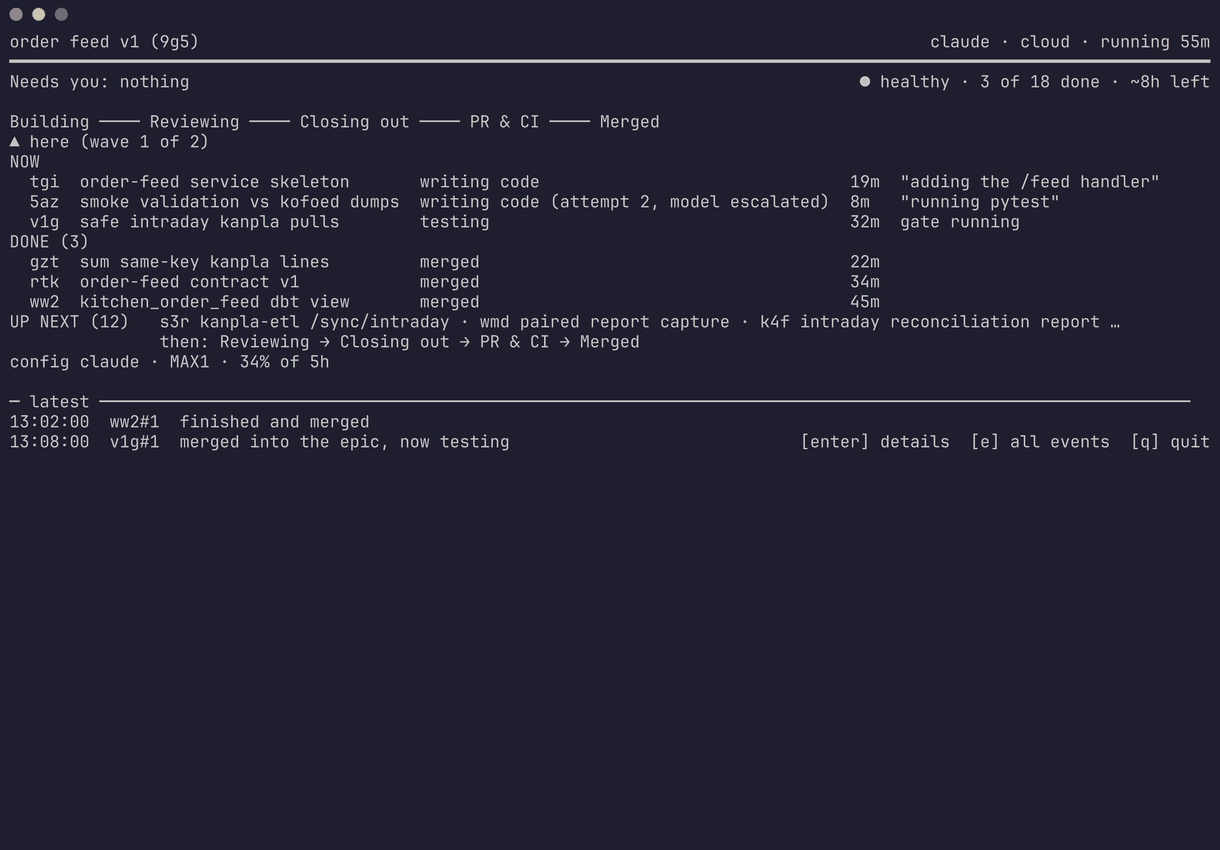
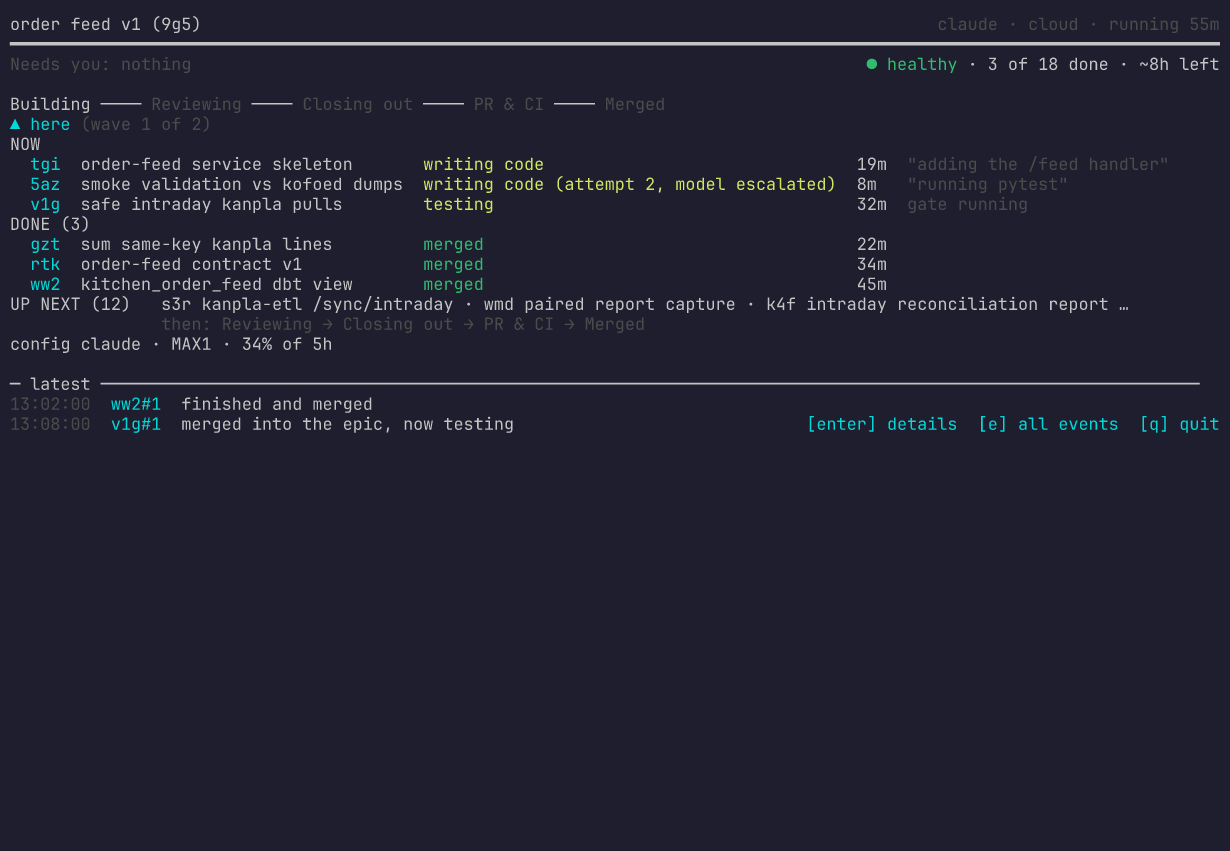
cl7: re-capture the watch screenshots in colour, from the styled output
The ymf screenshots were monochrome: the diagnosis is that the view never
dropped its accents (tick 5ba's colour tests pass) — the capture fed the
pipeline plain text. The five PNGs under docs/design/watch-redesign-2026-10/
are re-captured from the styled frames: a capture script renders each
scenario with the terminal's own style set (behind -screenshot-dir in
internal/cli, asserted against the pinned plain goldens), freeze turns each
into a PNG, and a new guard test reads the committed PNGs back and asserts
the hue families the accents draw per scenario — green done, amber in
progress, red failed/held, cyan identities, on the same five scenarios the
goldens pin. No window chrome on the captures: window controls would carry
their own red/yellow/green and make that guard vacuous.

Changed region(s): [[0.0, 0.0, 0.9967, 0.5506], [0.6541, 0.4894, 0.9967, 0.5506]]

diff --git a/internal/cli/watch_screenshots_test.go b/internal/cli/watch_screenshots_test.go
@@ -1,0 +1,296 @@
+package cli
+
+// The committed screenshots (docs/design/watch-redesign-2026-10): the five
+// scenarios the design names, re-captured in colour (tick cl7).
+//
+// Two tests keep them honest:
+//
+//   - TestDashboardScreenshotSources writes the five scenarios' frames with
+//     the terminal's own style set — the bytes the capture turns into PNGs —
+//     behind the -screenshot-dir flag, so the capture script
+//     (docs/design/watch-redesign-2026-10/capture.sh) regenerates the
+//     screenshots from the same renderer and fixtures the golden frames are
+//     pinned against, and the styled bytes it ships are provably the pinned
+//     layout with colour on (two SGR spellings the image pipeline misreads
+//     are re-spelled, screenshotSource below). The first capture lost the
+//     accents by feeding the pipeline plain text; a source that cannot
+//     drift is how that stays fixed.
+//   - TestCommittedScreenshotsShowTheColourAccents reads the committed PNGs
+//     back and asserts, per scenario, the hue families the frame's own
+//     accents must show: green done, amber in progress, red failed/held,
+//     cyan identities and hints — the acceptance's "the committed
+//     screenshots show them", checked by the gate instead of by an eyeball.
+//     A capture with window controls would carry its own red, yellow and
+//     green, so the captures are taken without window chrome and the
+//     assertion reads the whole image.
+
+import (
+	"flag"
+	"image/color"
+	"image/png"
+	"os"
+	"path/filepath"
+	"regexp"
+	"strings"
+	"testing"
+
+	"github.com/pengelbrecht/ticfac/internal/contracts"
+	"github.com/pengelbrecht/ticfac/internal/statusmodel"
+)
+
+// screenshotDir is where TestDashboardScreenshotSources writes the styled
+// frame sources; empty (the default, and what the gate runs) writes nothing.
+var screenshotDir = flag.String("screenshot-dir", "", "write the five scenarios' styled frame sources (ANSI text) here for the screenshot capture")
+
+// screenshotScenarios is the five scenarios the design names, in the order
+// the capture script walks them, each with the hue families its frame must
+// show: the accents the palette draws for the states that scenario carries.
+func screenshotScenarios() []struct {
+	name  string
+	model func() statusmodel.Model
+	want  []string
+} {
+	return []struct {
+		name  string
+		model func() statusmodel.Model
+		want  []string
+	}{
+		{"fresh", scenarioFresh, []string{"green", "cyan"}},
+		{"busy", scenarioBusy, []string{"amber", "green", "cyan"}},
+		{"held", scenarioHeld, []string{"red", "amber", "green", "cyan"}},
+		{"landed", scenarioLanded, []string{"green", "cyan"}},
+		{"failed", scenarioFailed, []string{"red", "green", "cyan"}},
+	}
+}
+
+// The capture source is the renderer's own output with two SGR sequences
+// re-spelled — same words, same widths, same meaning to a terminal that
+// accumulates attributes, spelled the one way every consumer reads:
+//
+//   - the faint accent ("2") becomes the palette's dark grey ("90"): the
+//     dim accent IS a dark grey on a dark terminal, and the image pipeline
+//     draws no faintness of its own;
+//   - a bare bold ("1") that arrives after a colour — the needs-you
+//     announcement's red+bold, adjacent or with the box's border between —
+//     is re-stated as one combined sequence ("1;31"): a terminal
+//     accumulates the two, but a tokenizer that styles per span drops the
+//     fill it was carrying when bold arrives after it.
+var (
+	screenshotFaint     = regexp.MustCompile("\x1b\\[2m")
+	screenshotBoldAfter = regexp.MustCompile("(\x1b\\[)((?:3[0-9]|9[0-7]))m([^\x1b]*)\x1b\\[1m")
+)
+
+// screenshotSource renders one styled frame into the bytes the capture
+// turns into a PNG, padded to the terminal's 40 rows.
+func screenshotSource(frame []string) string {
+	lines := append([]string{}, frame...)
+	for len(lines) < 40 {
+		lines = append(lines, "")
+	}
+	text := strings.Join(lines, "\n") + "\n"
+	text = screenshotBoldAfter.ReplaceAllString(text, "${1}${2}m${3}\x1b[1;${2}m")
+	text = screenshotFaint.ReplaceAllString(text, "\x1b[90m")
+	return text
+}
+
+// TestDashboardScreenshotSources: the styled bytes the screenshots are
+// captured from. Skipped unless -screenshot-dir names a directory — the gate
+// pays for assertions, not for artifacts. Each file is the scenario's frame
+// rendered with ansiWatchStyles at 120x40, asserted to be the pinned plain
+// frame with the colour on, so the capture can never ship a layout the
+// goldens do not pin. The file carries the terminal's full 40 rows — the
+// frame's own lines, then the blank rows a 120x40 terminal shows under it —
+// so the capture keeps the proportions the file name states.
+func TestDashboardScreenshotSources(t *testing.T) {
+	if *screenshotDir == "" {
+		t.Skip("no -screenshot-dir: writing screenshot sources is a capture step, not a gate step")
+	}
+	if err := os.MkdirAll(*screenshotDir, 0o755); err != nil {
+		t.Fatalf("create the screenshot source directory: %v", err)
+	}
+	for _, tc := range screenshotScenarios() {
+		t.Run(tc.name, func(t *testing.T) {
+			styled := renderWatchFrame(tc.model(), ansiWatchStyles(), 120, 40, "")
+			plain := renderWatchFrame(tc.model(), plainStyles(), 120, 40, "")
+			if len(styled) != len(plain) {
+				t.Fatalf("the styled frame holds %d lines, the pinned plain frame %d", len(styled), len(plain))
+			}
+			for i := range styled {
+				if stripSGR(styled[i]) != plain[i] {
+					t.Fatalf("line %d is not the pinned layout with colour on:\n got: %q\nwant: %q", i, stripSGR(styled[i]), plain[i])
+				}
+			}
+			if !strings.Contains(strings.Join(styled, "\n"), "\x1b[") {
+				t.Fatalf("scenario %s rendered with no SGR sequence at all — the capture would be monochrome again", tc.name)
+			}
+			source := screenshotSource(styled)
+			lines := strings.Split(strings.TrimSuffix(source, "\n"), "\n")
+			if len(lines) != 40 {
+				t.Fatalf("the source carries %d rows, want the terminal's 40", len(lines))
+			}
+			for i := range plain {
+				if stripSGR(lines[i]) != plain[i] {
+					t.Fatalf("source line %d is not the pinned layout with colour on:\n got: %q\nwant: %q", i, stripSGR(lines[i]), plain[i])
+				}
+			}
+			for i := len(plain); i < len(lines); i++ {
+				if lines[i] != "" {
+					t.Fatalf("padding row %d is not blank: %q", i, lines[i])
+				}
+			}
+			if screenshotBoldAfter.MatchString(source) || strings.Contains(source, "\x1b[2m") {
+				t.Fatalf("the capture source still carries a sequence the image pipeline misreads:\n%s", source)
+			}
+			path := filepath.Join(*screenshotDir, "watch-"+tc.name+".ansi")
+			if err := os.WriteFile(path, []byte(source), 0o644); err != nil {
+				t.Fatalf("write %s: %v", path, err)
+			}
+		})
+	}
+}
+
+// TestScreenshotSourceRespellsForTheCapture: the two re-spellings are exact
+// and nothing else is touched — every other sequence, and every word and
+// space, rides through unchanged.
+func TestScreenshotSourceRespellsForTheCapture(t *testing.T) {
+	t.Parallel()
+	frame := []string{
+		"\x1b[31m\x1b[1mNeeds you: hold\x1b[0m\x1b[0m",     // adjacent: red, then bold
+		"\x1b[31m│ \x1b[1mNeeds you: hold\x1b[0m │\x1b[0m", // the box's row: red border, then bold
+		"\x1b[2mNeeds you: nothing\x1b[0m",                 // the quiet answer: faint
+		"\x1b[32m● healthy\x1b[0m · \x1b[1mNOW\x1b[0m",     // green, and a bold header
+		"plain text with no styling",
+	}
+	want := []string{
+		"\x1b[31m\x1b[1;31mNeeds you: hold\x1b[0m\x1b[0m",
+		"\x1b[31m│ \x1b[1;31mNeeds you: hold\x1b[0m │\x1b[0m",
+		"\x1b[90mNeeds you: nothing\x1b[0m",
+		"\x1b[32m● healthy\x1b[0m · \x1b[1mNOW\x1b[0m",
+		"plain text with no styling",
+	}
+	got := strings.Split(strings.TrimSuffix(screenshotSource(frame), "\n"), "\n")
+	for len(want) < 40 { // the padding rows are empty and carry no styling
+		want = append(want, "")
+	}
+	if len(got) != len(want) {
+		t.Fatalf("the source holds %d lines, want %d", len(got), len(want))
+	}
+	for i := range want {
+		if got[i] != want[i] {
+			t.Errorf("line %d:\n got: %q\nwant: %q", i, got[i], want[i])
+		}
+	}
+}
+
+// TestCommittedScreenshotsShowTheColourAccents: the five PNGs under
+// docs/design/watch-redesign-2026-10 each show the hue families the
+// dashboard's own accents draw for their scenario — the committed evidence
+// of the colour accents, read back the way a person sees it. This is the
+// guard the first capture failed: those PNGs were monochrome (the capture
+// ran without colour), and no assertion noticed.
+func TestCommittedScreenshotsShowTheColourAccents(t *testing.T) {
+	t.Parallel()
+	root, err := contracts.RepoRoot()
+	if err != nil {
+		t.Fatalf("locate the repository root: %v", err)
+	}
+	dir := filepath.Join(root, "docs", "design", "watch-redesign-2026-10")
+	for _, tc := range screenshotScenarios() {
+		t.Run(tc.name, func(t *testing.T) {
+			t.Parallel()
+			path := filepath.Join(dir, "watch-"+tc.name+"-120x40.png")
+			f, err := os.Open(path)
+			if err != nil {
+				t.Fatalf("open the committed screenshot: %v", err)
+			}
+			defer f.Close()
+			img, err := png.Decode(f)
+			if err != nil {
+				t.Fatalf("decode %s: %v", path, err)
+			}
+			bounds := img.Bounds()
+			families := map[string]int{}
+			for y := bounds.Min.Y; y < bounds.Max.Y; y++ {
+				for x := bounds.Min.X; x < bounds.Max.X; x++ {
+					if family := hueFamilyOf(img.At(x, y)); family != "" {
+						families[family]++
+					}
+				}
+			}
+			for _, want := range tc.want {
+				if families[want] == 0 {
+					t.Errorf("%s carries no %s accent anywhere — the screenshot does not show the dashboard's colour (families found: %v)",
+						filepath.Base(path), want, families)
+				}
+			}
+		})
+	}
+}
+
+// hueFamilyOf names the hue family one pixel belongs to, "" for none: the
+// palette's four accents read by hue, not by one rendering's exact RGB —
+// red, amber, green, cyan; greys, the background and dim text (which carries
+// no hue of its own) all answer "". A pixel counts only when it is clearly
+// saturated and clearly bright: the anti-aliased edge of a glyph blends into
+// the dark background and must not tip a family in or out.
+func hueFamilyOf(c color.Color) string {
+	r8, g8, b8, _ := c.RGBA()
+	r, g, b := int(r8>>8), int(g8>>8), int(b8>>8)
+	mx, mn := max(r, g, b), min(r, g, b)
+	if mx-mn < 40 || mx < 70 {
+		return ""
+	}
+	var h float64
+	switch mx {
+	case r:
+		h = 60 * float64(g-b) / float64(mx-mn)
+	case g:
+		h = 60 * (2 + float64(b-r)/float64(mx-mn))
+	default:
+		h = 60 * (4 + float64(r-g)/float64(mx-mn))
+	}
+	if h < 0 {
+		h += 360
+	}
+	switch {
+	case h < 20 || h >= 330:
+		return "red"
+	case h < 75:
+		return "amber"
+	case h < 170:
+		return "green"
+	case h < 265:
+		return "cyan"
+	}
+	return "" // blue and magenta: no accent in the palette carries them
+}
+
+// TestHueFamilyOfRefusesMonochrome: the committed-screenshot assertion is
+// itself held to its own oracle — it must refuse everything a colourless
+// capture produces (the dark background, the plain text, the washed greys of
+// the old captures) and accept the palette's accents. The washed reds and
+// yellows are the old captures' window controls: below the saturation floor
+// they refuse, which is also why the re-capture takes no window chrome — a
+// chrome yellow saturated enough to survive the floor would read as amber
+// and make the assertion vacuous.
+func TestHueFamilyOfRefusesMonochrome(t *testing.T) {
+	t.Parallel()
+	for _, tc := range []struct {
+		col    color.Color
+		family string
+	}{
+		{color.RGBA{R: 30, G: 30, B: 46, A: 255}, ""},    // the dark background
+		{color.RGBA{R: 196, G: 196, B: 196, A: 255}, ""}, // plain text grey
+		{color.RGBA{R: 159, G: 128, B: 130, A: 255}, ""}, // the old captures' washed window red
+		{color.RGBA{R: 146, G: 133, B: 137, A: 255}, ""}, // ...its other wash
+		{color.RGBA{R: 202, G: 197, B: 176, A: 255}, ""}, // ...and washed yellow
+		{color.RGBA{R: 255, G: 90, B: 84, A: 255}, "red"},
+		{color.RGBA{R: 230, G: 191, B: 41, A: 255}, "amber"},
+		{color.RGBA{R: 82, G: 193, B: 43, A: 255}, "green"},
+		{color.RGBA{R: 59, G: 142, B: 165, A: 255}, "cyan"},
+	} {
+		if got := hueFamilyOf(tc.col); got != tc.family {
+			t.Errorf("hueFamilyOf(%v) = %q, want %q", tc.col, got, tc.family)
+		}
+	}
+}

diff --git a/docs/design/watch-redesign-2026-10.md b/docs/design/watch-redesign-2026-10.md
@@ -60,5 +60,14 @@ subscription's window use ("MAX1 · 34% of 5h") instead of "$0.00".
 Golden frames rendered through a real terminal emulator at 80x24 and 120x40
 for: a fresh run, a busy wave, a held tick (needs-you box), an ended landed
 run, an ended failed run. Each frame is checked against the three questions.
-Screenshots (vhs or freeze) are attached to the workers' reports and the epic
-PR for the operator's eye.
+
+The five `watch-*-120x40.png` screenshots in this directory are captured from
+the STYLED output — `capture.sh` renders each scenario's frame with the
+terminal's own style set and freeze turns it into a PNG — so they show the
+dashboard's colour accents: green done, amber in progress, red failed/held,
+dim pending/mechanics, cyan identities and hints (tick cl7; the first capture
+fed the pipeline plain text and came out monochrome, and
+`TestCommittedScreenshotsShowTheColourAccents` now reads the committed PNGs
+back so that cannot happen silently again). The captures use no window
+chrome: window controls would bring their own red, yellow and green, and the
+colour on screen must be the frame's own.
